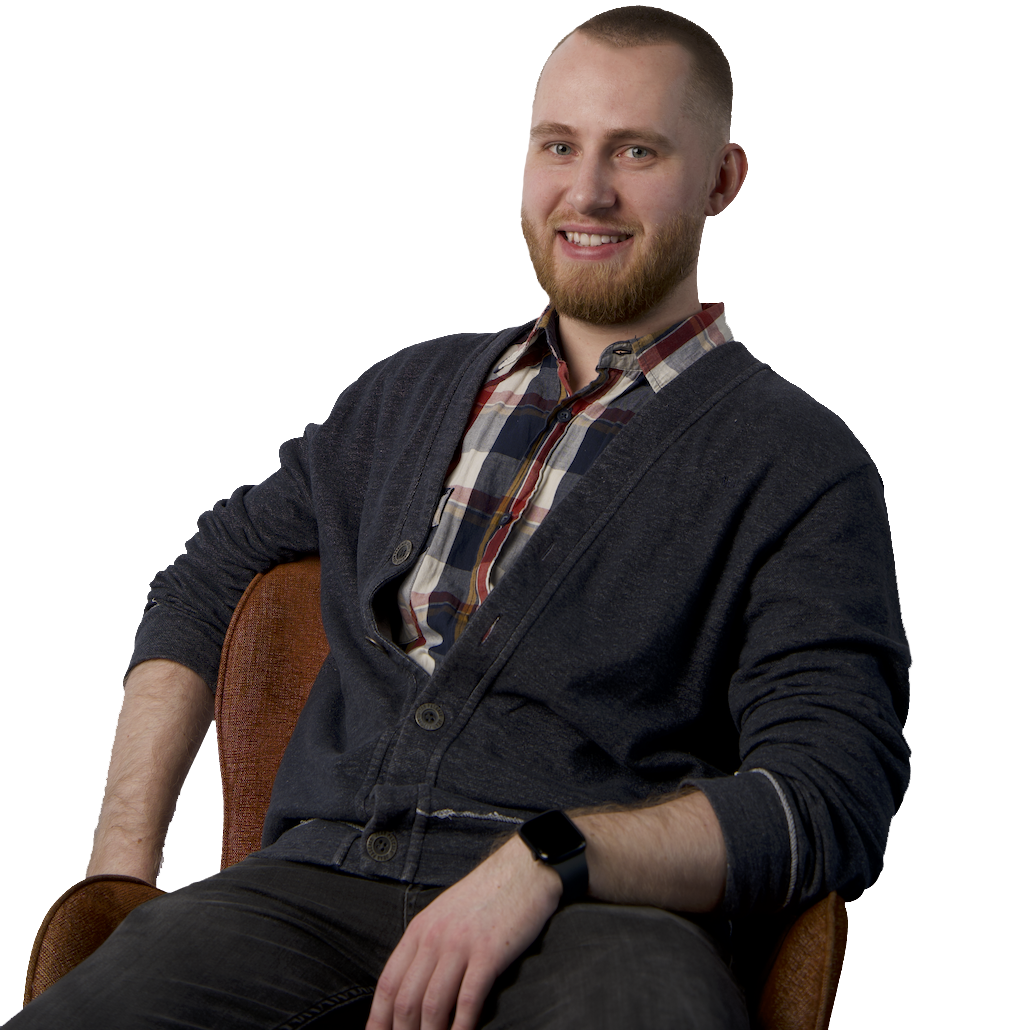
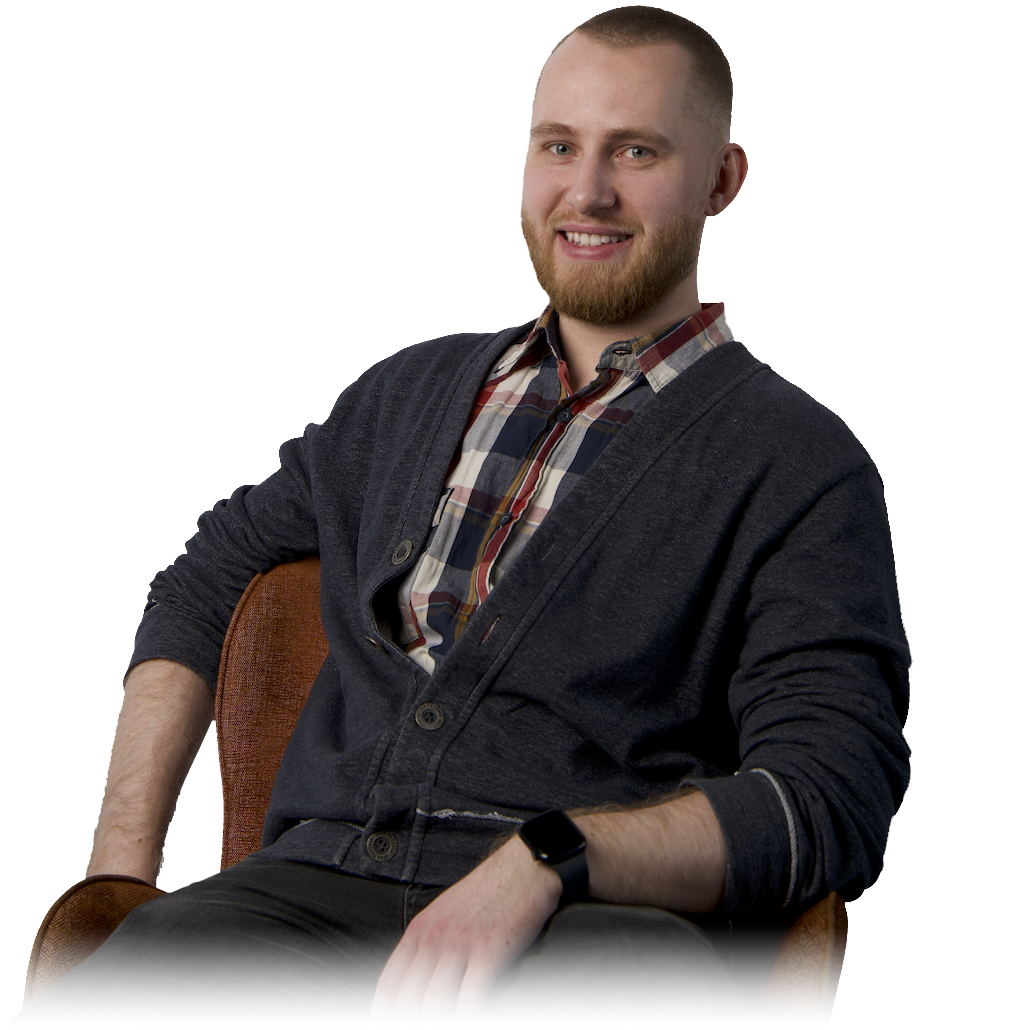
fix: styles

Changed region(s): [[0.0, 0.901, 0.8388, 1.0]]

diff --git a/src/components/ui/work-card/work-card.tsx b/src/components/ui/work-card/work-card.tsx
@@ -1,14 +1,15 @@
-'use client'
+'use client';
 
 import { MediaQuery } from '@/constants/viewport';
 import { useMediaQuery } from '@/hooks/use-media-query';
+import clsx from 'clsx';
 import Image from 'next/image';
 import { useState } from 'react';
-import './work.scss';
+import s from './work-card.module.scss';
 
 // ^======================== Work ========================^ //
 
-type WorkProps = {
+type WorkCardProps = {
   className: string;
   href: string;
   label: string;
@@ -20,14 +21,14 @@ type WorkProps = {
   gifMobSrc: string;
 };
 
-function Work(workProps: WorkProps): React.JSX.Element {
-  const { className, href, label, title, desc, technologies, imgSrc, gifSrc, gifMobSrc } = workProps;
+function WorkCard(workCardProps: WorkCardProps): React.JSX.Element {
+  const { className, href, label, title, desc, technologies, imgSrc, gifSrc, gifMobSrc } = workCardProps;
   const [isHovered, setIsHovered] = useState(false);
   const isMobileScreen = useMediaQuery(MediaQuery.MOBILE);
 
   return (
     <li
-      className={`${className} work`}
+      className={clsx(className, s.workCard)}
       onMouseEnter={() => {
         setIsHovered(true);
       }}
@@ -35,26 +36,22 @@ function Work(workProps: WorkProps): React.JSX.Element {
         setIsHovered(false);
       }}
     >
-      <a href={href} className='work__link' aria-label={label}>
-        <div className='work__image-box'>
+      <a href={href} className={s.link} aria-label={label}>
+        <div className={s.imageBox}>
           <Image
-            className='work__image'
+            className={s.image}
             src={!isMobileScreen ? (isHovered ? gifSrc : imgSrc) : gifMobSrc}
             alt=''
             width={417}
             height={234}
           />
         </div>
-        <div className='work__info'>
-          <p className='work__title'>
-            {title}
-          </p>
-          <p className='work__desc'>
-            {desc}
-          </p>
-          <ul className='work__technologies'>
+        <div className={s.info}>
+          <p className={s.title}>{title}</p>
+          <p className={s.description}>{desc}</p>
+          <ul className={s.technologies}>
             {technologies.map((item) => (
-              <li key={item} className='work__technology'>
+              <li key={item} className={s.technology}>
                 {item}
               </li>
             ))}
@@ -64,4 +61,4 @@ function Work(workProps: WorkProps): React.JSX.Element {
     </li>
   );
 }
-export default Work;
+export default WorkCard;

diff --git a/src/components/ui/work-card/work-card.module.scss b/src/components/ui/work-card/work-card.module.scss
@@ -1,0 +1,122 @@
+@use '@/styles/abstracts' as *;
+
+// ^======================== work-card ========================^ //
+
+.workCard {
+  width: 100%;
+  height: 100%;
+  padding: desk(16px);
+  box-shadow: $boxShadow;
+  background-color: #ffffff09;
+  transition: all 250ms;
+  border-radius: desk(16px);
+  backdrop-filter: blur(desk(4px));
+
+  @include MIDDLE {
+    flex-shrink: 0;
+    width: 100vw;
+    padding-inline: 20px;
+    background-color: transparent;
+    scroll-snap-align: start;
+    box-shadow: none;
+  }
+
+  @include HOVER {
+    box-shadow: 0 0 desk(20px) desk(2px) #e5e5e544;
+  }
+}
+
+.link {
+  display: flex;
+  flex-direction: column;
+  width: 100%;
+  height: 100%;
+  color: inherit;
+
+  @include MIDDLE {
+    justify-content: space-between;
+    gap: 10px;
+    width: auto;
+    height: 100%;
+    padding: 10px;
+    overflow: clip;
+    border-radius: inherit;
+    box-shadow: none;
+    box-shadow: $boxShadow;
+    background-color: $gray;
+    container-type: size;
+  }
+}
+
+.imageBox {
+  margin-bottom: desk(14px, 10px);
+  aspect-ratio: 16 / 9;
+  overflow: clip;
+  width: 100%;
+
+  @include MIDDLE {
+    aspect-ratio: unset;
+    display: flex;
+    justify-content: center;
+    max-height: 72cqh;
+    margin-bottom: 0;
+    overflow: clip;
+  }
+}
+
+.image {
+  width: 100%;
+  height: auto;
+  aspect-ratio: 16 / 9;
+  overflow: clip;
+  object-fit: cover;
+  transition: all .3s;
+  // @include border-radius-top(desk(10px));
+  border-radius: desk(10px);
+
+  @include MIDDLE {
+    width: auto;
+    height: 100%;
+    aspect-ratio: 0.46;
+    object-fit: contain;
+  }
+}
+
+.info {
+  flex-grow: 1;
+  display: flex;
+  flex-direction: column;
+  gap: desk(20px);
+  padding-inline: desk(10px);
+}
+
+.title {
+  font-size: desk(24px, 20px);
+  font-weight: 700;
+
+  @include TABLET {
+    font-size: tab(20px, 18px);
+  }
+}
+
+.description {
+  font-size: desk(18px, 16px);
+
+  @include TABLET {
+    font-size: tab(16px, 14px);
+  }
+}
+
+.technologies {
+  display: flex;
+  gap: desk(6px);
+  margin-top: auto;
+}
+
+.technology {
+  padding-inline: desk(8px);
+  padding-block: desk(4px);
+  border: desk(1px) solid #ffffffaa;
+  font-size: desk(14px);
+  border-radius: desk(6px);
+}

diff --git a/src/components/sections/hero-section/hero-section.module.scss b/src/components/sections/hero-section/hero-section.module.scss
@@ -77,15 +77,15 @@
   width: desk(580px, 580px);
   height: auto;
 
-  &::after {
-    content: '';
-    display: block;
-    width: 100%;
-    height: 10%;
-    position: absolute;
-    bottom: 0;
-    background-image: linear-gradient(transparent 10%, #212223 80%);
-  }
+  // &::after {
+  //   content: '';
+  //   display: block;
+  //   width: 100%;
+  //   height: 10%;
+  //   position: absolute;
+  //   bottom: 0;
+  //   background-image: linear-gradient(transparent 10%, #212223 80%);
+  // }
 
   @include MIDDLE {
     width: mid(340px, 270px);
@@ -94,6 +94,7 @@
 
 .image {
   @include square(100%);
+  filter: drop-shadow(0 0 desk(10px) desk(10px) #fff);
 }
 
 .circle {

diff --git a/src/components/layout/wrapper/wrapper.tsx b/src/components/layout/wrapper/wrapper.tsx
@@ -1,5 +1,6 @@
+import Background from '@/components/ui/background/background';
 import type { ReactNode } from 'react';
-import s from './wrapper.module.scss'
+import s from './wrapper.module.scss';
 
 // $======================== Wrapper ========================$ //
 
@@ -9,7 +10,10 @@ type WrapperProps = {
 
 function Wrapper({ children }: WrapperProps): React.JSX.Element {
   return (
-    <div className={s.wrapper}>{children}</div>
+    <div className={s.wrapper}>
+      <Background className={s.bg} style={{backgroundImage: 'url(/img/bg/bg-tile.png)',}}/>
+      {children}
+    </div>
   );
 }
 export default Wrapper;

diff --git a/src/components/layout/works-list/works-list.tsx b/src/components/layout/works-list/works-list.tsx
@@ -1,4 +1,4 @@
-import Work from '@/components/ui/work/work';
+import WorkCard from '@/components/ui/work-card/work-card';
 import { WorkType } from '@/types/types';
 import './works-list.scss';
 
@@ -14,7 +14,7 @@ function WorksList(worksProps: WorksProps): React.JSX.Element {
     <ul className='works-list'>
       {worksList.map(({ href, label, title, desc, technologies, imgSrc, gifSrc, gifMobSrc }) => {
         return (
-          <Work
+          <WorkCard
             className={'works-list__item'}
             key={label}
             href={href}

diff --git a/src/components/layout/header-lang/header-lang.module.scss b/src/components/layout/header-lang/header-lang.module.scss
@@ -6,6 +6,7 @@
   display: flex;
   position: relative;
   cursor: pointer;
+  padding-inline: desk(6px);
 
   @include MIDDLE {
     width: auto;
@@ -60,6 +61,8 @@
   opacity: 0;
   border-radius: 0 0 10px 10px;
   transition: all .3s;
+  background-image: linear-gradient(to bottom, transparent 0%, var(--bg) 30%);
+  padding-inline: desk(6px);
 
   @include MIDDLE {
     margin-inline: auto;
@@ -79,4 +82,9 @@
 
 .dropdownName {
   transition: all 250ms;
+  font-size: desk(14px);
+
+  @include MIDDLE {
+    font-size: mid(28px, 22px);
+  }
 }

diff --git a/src/styles/_global.scss b/src/styles/_global.scss
@@ -20,7 +20,7 @@ html {
   --white50: #ffffff80;
   --orangeGradient: linear-gradient(to right, var(--orange), var(--lightOrange));
   --grayGradient: linear-gradient(135deg, var(--bg) 0%, var(--bgSecondary) 100%);
-  --radialGradient: radial-gradient(var(--orange), var(--lightOrange))
+  --radialGradient: radial-gradient(var(--orange), var(--lightOrange));
 }
 
 body {

diff --git a/src/components/layout/wrapper/wrapper.module.scss b/src/components/layout/wrapper/wrapper.module.scss
@@ -13,3 +13,10 @@
   line-height: 1.4;
   background-image: linear-gradient(135deg, var(--bg) 0%, var(--bgSecondary) 100%);
 }
+
+.bg {
+  z-index: unset;
+  opacity: 0.10;
+  background-size: desk(20px);
+  position: fixed;
+}

diff --git a/src/app/page.tsx b/src/app/page.tsx
@@ -15,8 +15,6 @@ export default function Page() {
       <HeroSection />
       <AboutSection />
       <WorksSection />
-      {/* <section className='sections-wrapper'>
-      </section> */}
     </main>
   );
 }
